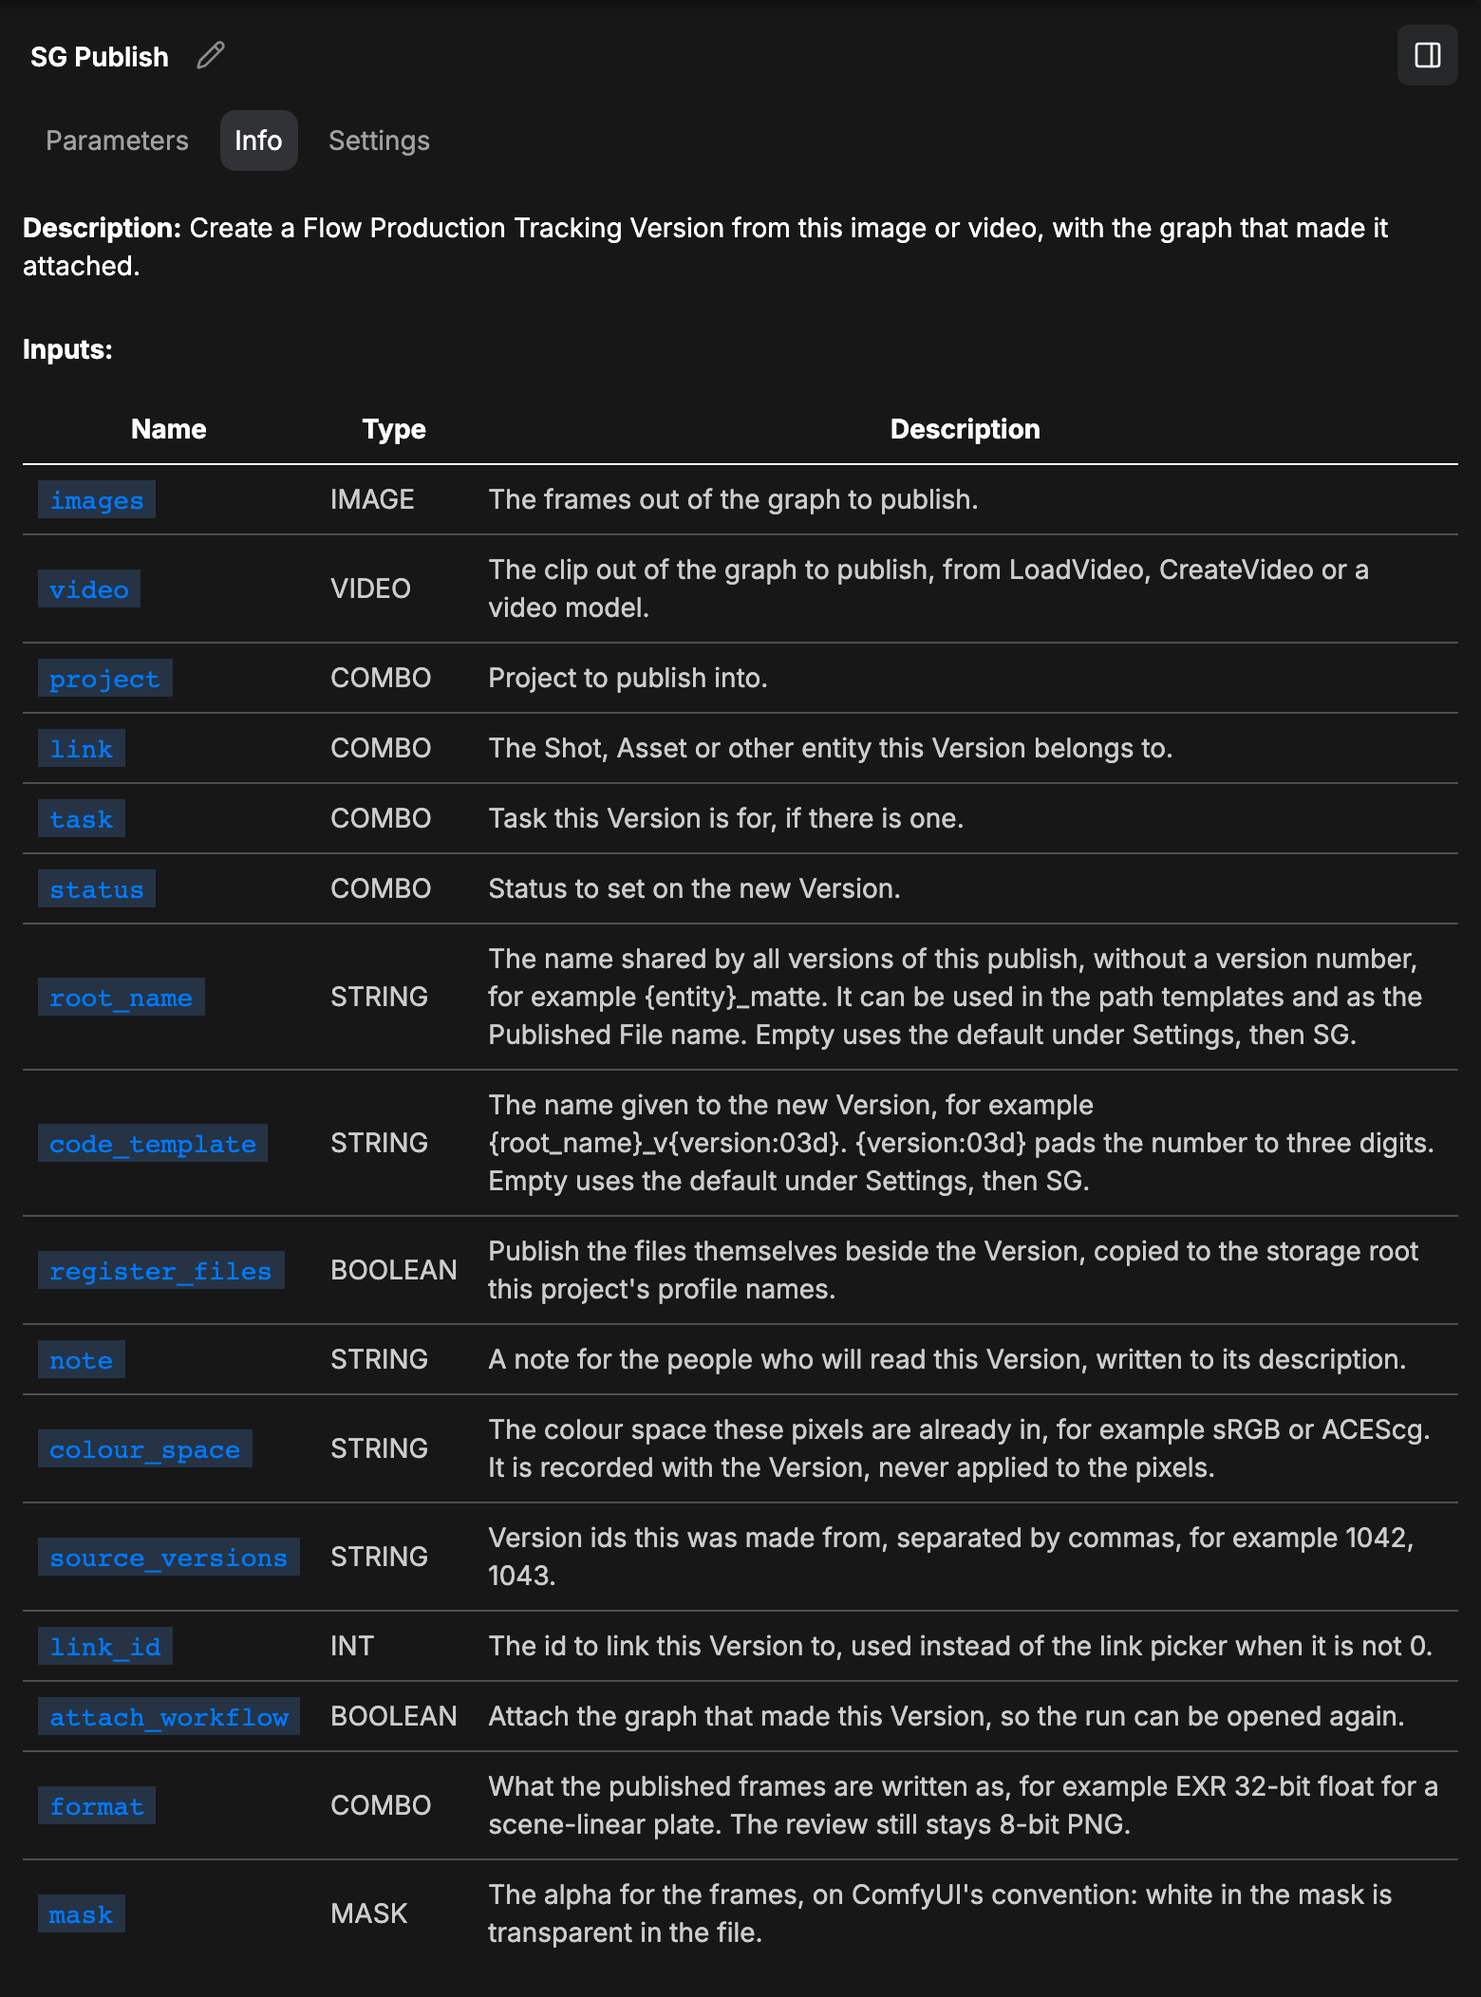
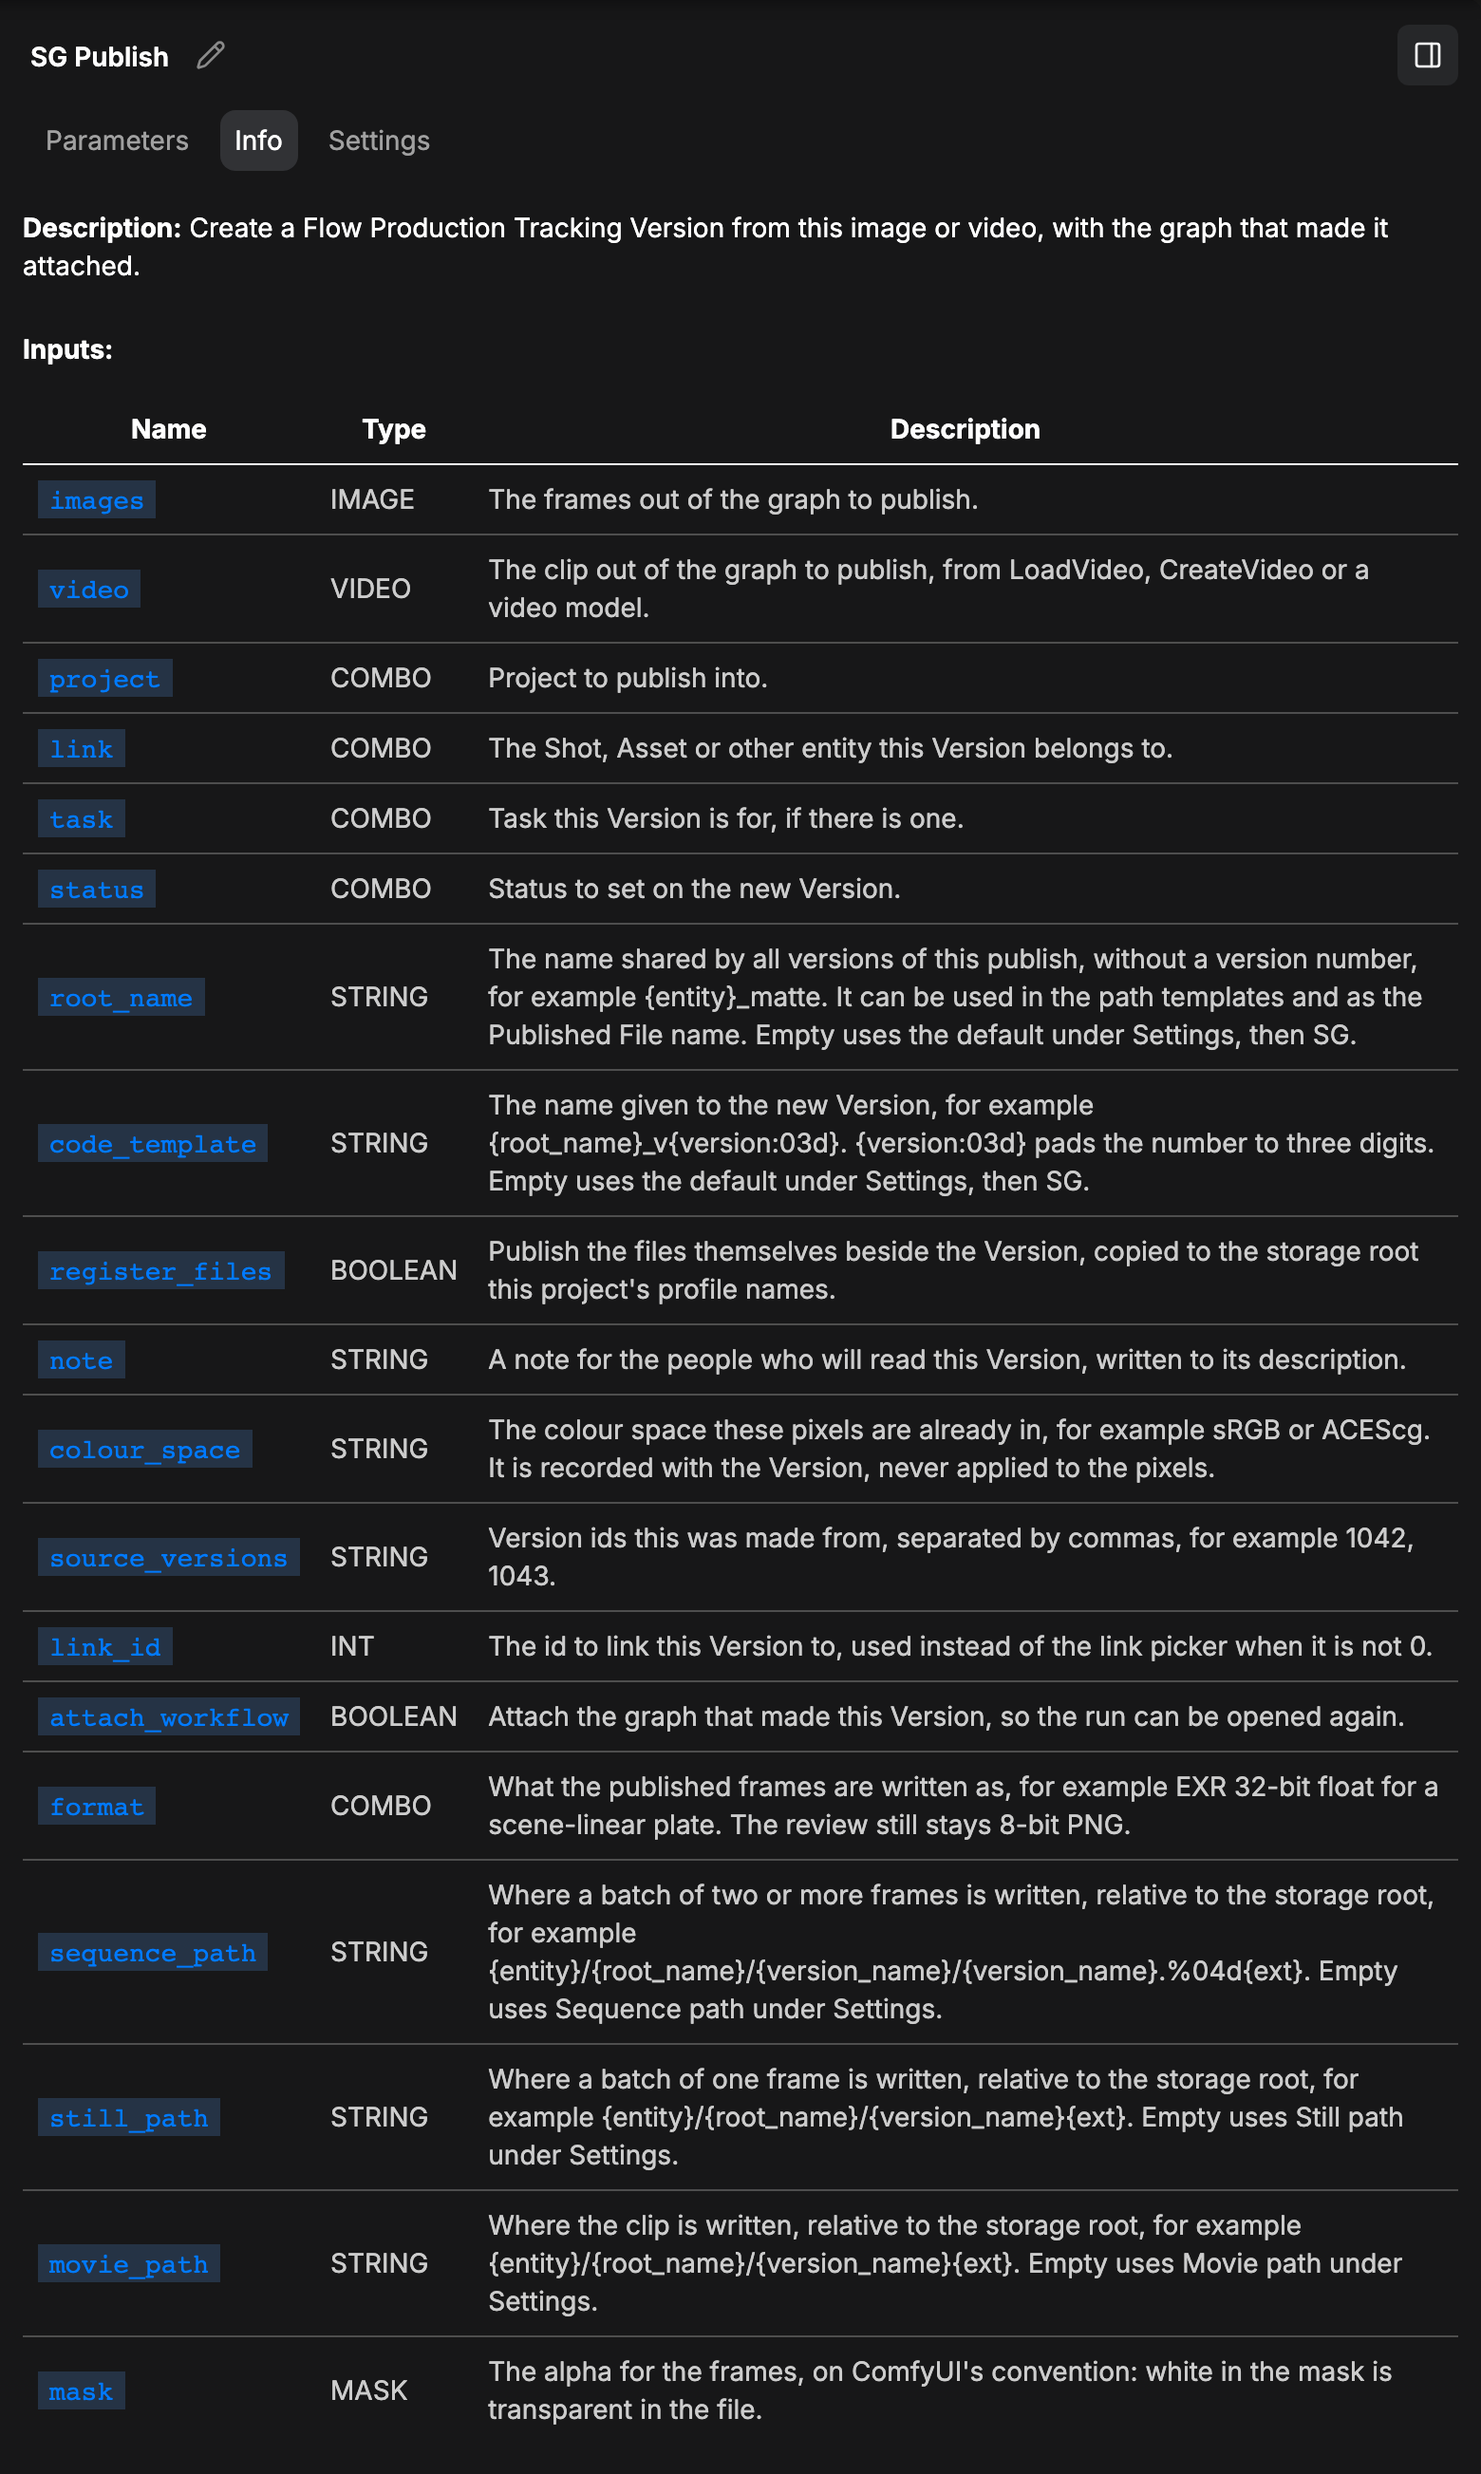
RELEASE.md: the 2026-09-14 state and decisions, the Registry last; SG Publish Info tab retaken (#137)
Claude-Session: https://claude.ai/code/session_016F8xWKFTM6t5CAap6qZSCJ

Changed region(s): [[0.0, 0.0, 0.9846, 0.9886], [0.9538, 0.0, 0.9846, 0.0309]]

diff --git a/site/src/lib/site.js b/site/src/lib/site.js
@@ -46,6 +46,6 @@ export const shotSize = {
 	'settings-storage-paths': [1900, 750],
 	'sg-load-info': [1560, 2536],
 	'sg-load-node': [1050, 800],
-	'sg-publish-info': [1560, 2104],
+	'sg-publish-info': [1560, 2606],
 	'sg-publish-node': [765, 855]
 };

diff --git a/RELEASE.md b/RELEASE.md
@@ -9,17 +9,44 @@ and `AGENTS.md`.
 
 ## Next session, in order
 
-1. **`dev` to `main`**, by merge commit, Kevin. Then the GitHub release from `main`, tagged.
-2. **Repo public.** The Registry reads the repo and links to it.
-3. **Registry mechanics**, Kevin: publisher and API key at registry.comfy.org; `PublisherId`,
-   `Icon` (square, 400 px or smaller), `Banner` (21:9) in `pyproject.toml`; `comfy node pack` and
-   `unzip -l` to check the archive; `comfy node publish` by hand. No publish workflow exists, and
-   Actions is off.
-4. **The launch page, after the public release, on Vercel.** The same setup as
-   sg-groundtruth.vercel.app: a Vercel project `sg-comfyui` linked from the repo root, root
-   directory `site`, output `build`, production deploys only, `BASE_PATH=/` in the project's
-   environment. `pages.yml` and `gh-pages` are then unused.
-5. **Corpus**, Kevin's repo: sg-groundtruth #48, and the two gaps under "Open".
+1. **`dev` to `main`**, by merge commit. Then the GitHub release from `main`, tagged.
+2. **Repo public.** Then GitHub Actions back on at the repository level. From this point merges
+   onto `dev` and `main` are Kevin's again.
+3. **The launch page on Vercel.** The same setup as sg-groundtruth.vercel.app: a Vercel project
+   `sg-comfyui` linked from the repo root, root directory `site`, output `build`, production
+   deploys only, `BASE_PATH=/` in the project's environment. `pages.yml` and `gh-pages` are then
+   unused. The page's content is Kevin's brother's from 2026-09-14.
+4. **Corpus**, Kevin's repo: sg-groundtruth #48, and the two gaps under "Open".
+5. **Registry mechanics**, last, Kevin: publisher and API key at registry.comfy.org;
+   `PublisherId`, `Icon` (square, 400 px or smaller), `Banner` (21:9) in `pyproject.toml`;
+   `comfy node pack` and `unzip -l` to check the archive; `comfy node publish` by hand. No publish
+   workflow exists.
+
+---
+
+## State, end of 2026-09-14
+
+`dev` has everything below. `main` is untouched since #80. Offline suite: 272 passed, 17 skipped.
+Actions is still off; the suite, the README block check and `npm run build` were run locally at
+each merge.
+
+**Landed 2026-09-14, one PR each, onto `dev`.**
+
+- #133 No em dash in a runtime string. The source label separator is a middle dot
+  (`Rendered Image · sh010_v001.mov, uploaded file`), the clip sentence takes a comma
+  (`240 frames at 24 fps, encoded by ComfyUI`), an instrumented node is titled
+  `SG Publish: <name>`. README's What's next reads "Publishing from a Windows machine is
+  untested. You can contribute." and the site's copy of the block follows.
+- #134 The two comment lines in `pyproject.toml` and one in `tests.yml`.
+- #135 SG Publish takes its three path templates as advanced inputs: `sequence_path`,
+  `still_path`, `movie_path`, appended after `format`. Empty is the template under Settings, drawn
+  greyed inside the field; brace completion with a Default row; `sequence.plan` takes the node's
+  three and the run and the preview call it the same way. Ten SG Publish nodes across the shipped
+  graphs gained three values. The SG Publish Info tab capture retaken at 780 px, 1560 by 2606,
+  in `docs/images` and `site/static/media`.
+- #136 `LAYOUT_API.md` as reference prose, 1,858 words to 1,749, names checked against the three
+  editor files. Its Exports table lists what it listed before; `textRows`, `setPlaceholder`,
+  `templateCompletion`, `styleOnce`, `esc`, `rgbParts` and `rgbCss` are exported and not in it.
 
 ---
 
@@ -107,6 +134,21 @@ thirteen files in page order; older folders under `~/Desktop/sg-screenshots-arch
 
 ---
 
+## Decisions, 2026-09-14, with Kevin
+
+- **The three path templates are inputs on SG Publish**, advanced, empty meaning Settings, the
+  Settings template as the placeholder, on the pattern of root name and version name. Storage,
+  operating system, the two path-field toggles and review movie stay in Settings only.
+- **The readout keeps both the frames path and the still path before a Run.** The labels stay.
+- **Windows** is listed as untested with an invitation to contribute, not as a feature.
+- **No em dash in a runtime string.** The source label separator is a middle dot.
+- **Merges onto `dev` and `main` are the agent's until the repo is public.** Kevin QAs after they
+  land. Once the repo is public, PRs wait for his merge again.
+- **The Registry is the last step**, after the release, the public repo, the launch page and the
+  corpus.
+- **The launch page is Kevin's brother's** from 2026-09-14. `dev` and `main` are kept green for
+  him at each merge.
+
 ## Decisions, 2026-09-11, with Kevin
 
 - **A still takes a path template of its own**, `published_files.still_path_template`, default
@@ -177,9 +219,7 @@ deny on `.env.local` ships. Version stays 0.1.0.
 
 ## Before the first release
 
-1. **`dev` to `main`, the GitHub release, the repo public.** Kevin.
-2. **Registry mechanics**, item 3 under "Next session".
-3. **The launch page on Vercel**, item 4 under "Next session", after the public release.
+Items 1 to 4 under "Next session", then the Registry.
 
 **Feedback list at launch**, in README "What's next" and at the end of every post: registering files
 another node wrote (Save Image (Advanced), OCIO Write); publishing with no shared storage, the
